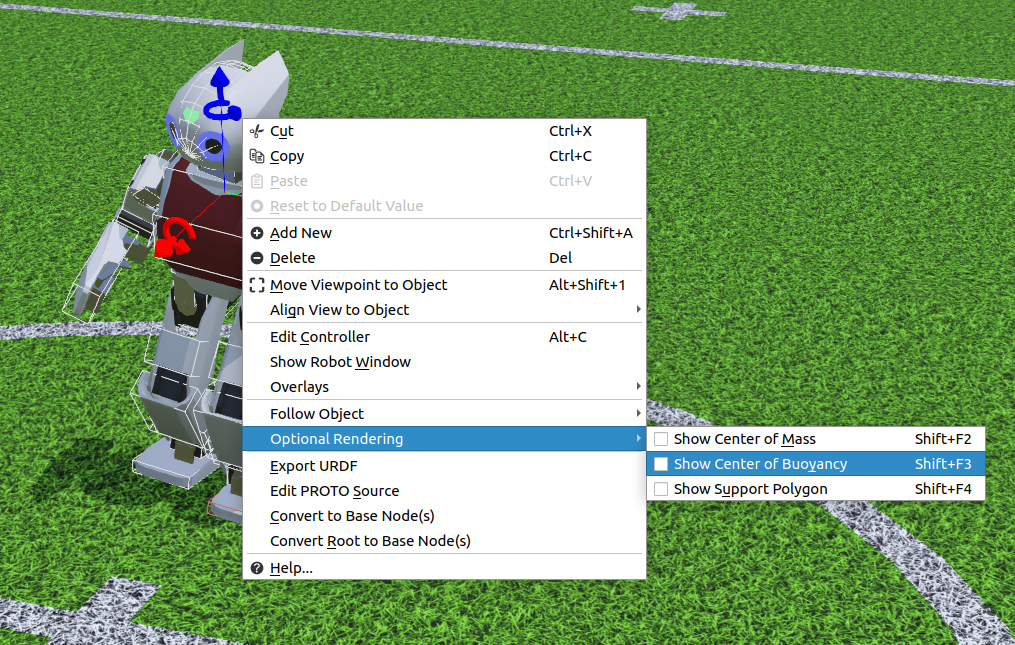
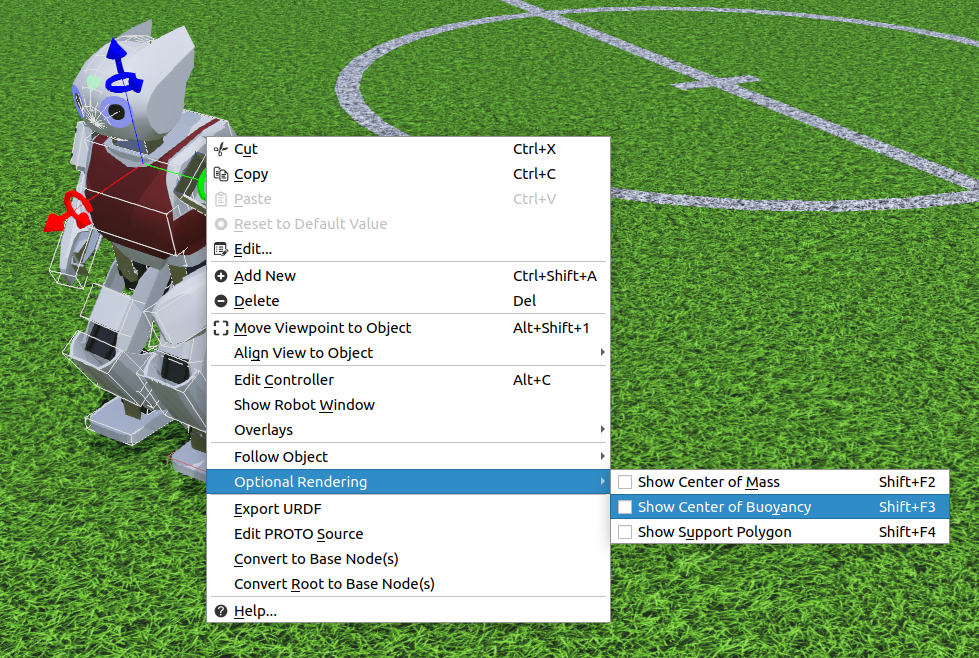
Add actions to show field editor (#5211)
* Add actions to show field editor and do it only once on selection change

* Update ChangeLog

* Remove unused function declaration

* Add edit field button

* Update doc screenshots

diff --git a/src/webots/scene_tree/WbSceneTree.cpp b/src/webots/scene_tree/WbSceneTree.cpp
@@ -125,6 +125,7 @@ WbSceneTree::WbSceneTree(QWidget *parent) :
   connect(mActionManager->action(WbAction::MOVE_VIEWPOINT_TO_OBJECT), &QAction::triggered, this,
           &WbSceneTree::moveViewpointToObject);
   connect(mActionManager->action(WbAction::RESET_VALUE), &QAction::triggered, this, &WbSceneTree::reset);
+  connect(mActionManager->action(WbAction::EDIT_FIELD), &QAction::triggered, this, &WbSceneTree::showFieldEditor);
   connect(mActionManager->action(WbAction::CONVERT_TO_BASE_NODES), &QAction::triggered, this, &WbSceneTree::convertToBaseNode);
   connect(mActionManager->action(WbAction::CONVERT_ROOT_TO_BASE_NODES), &QAction::triggered, this,
           &WbSceneTree::convertRootToBaseNode);
@@ -268,7 +269,7 @@ void WbSceneTree::setWorld(WbWorld *world) {
 void WbSceneTree::showExternProtoPanel() {
   clearSelection();
   // uncollapse the field editor
-  handleFieldEditorVisibility(true);
+  showFieldEditor(true);
   emit nodeSelected(NULL);
   mFieldEditor->editExternProto();
 }
@@ -1091,9 +1092,6 @@ void WbSceneTree::clearSelection() {
 
   mFieldEditor->setTitle("");
   mFieldEditor->editField(NULL, NULL);
-
-  // collapse the field editor
-  handleFieldEditorVisibility(false);
 }
 
 void WbSceneTree::enableObjectViewActions(bool enabled) {
@@ -1125,6 +1123,7 @@ void WbSceneTree::updateSelection() {
     mSelectedItem = NULL;
     enableObjectViewActions(false);
     mActionManager->action(WbAction::OPEN_HELP)->setEnabled(false);
+    mActionManager->action(WbAction::EDIT_FIELD)->setEnabled(false);
     updateToolbar();
     // no item selected
     return;
@@ -1134,6 +1133,7 @@ void WbSceneTree::updateSelection() {
     mSelectedItem = NULL;
     enableObjectViewActions(false);
     mActionManager->action(WbAction::OPEN_HELP)->setEnabled(false);
+    mActionManager->action(WbAction::EDIT_FIELD)->setEnabled(false);
     updateToolbar();
     return;
   }
@@ -1155,6 +1155,7 @@ void WbSceneTree::updateSelection() {
     mFieldEditor->editField(node, mSelectedItem->parent()->field(), mSelectedItem->row());
   }
 
+  mActionManager->action(WbAction::EDIT_FIELD)->setEnabled(mSplitter->sizes()[2] == 0);
   WbContextMenuGenerator::enableNodeActions(mSelectedItem->isNode());
   WbContextMenuGenerator::enableRobotActions(mSelectedItem->node() &&
                                              WbNodeUtilities::isRobotTypeName(mSelectedItem->node()->nodeModelName()));
@@ -1194,7 +1195,7 @@ void WbSceneTree::updateSelection() {
   }
 
   // uncollapse the field editor
-  handleFieldEditorVisibility(true);
+  showFieldEditor();
 }
 
 void WbSceneTree::startWatching(const QModelIndex &index) {
@@ -1504,10 +1505,14 @@ void WbSceneTree::handleDoubleClickOrEnterPress() {
            (mSelectedItem->isField() && !mSelectedItem->isSFNode() && !mSelectedItem->field()->isMultiple()))
     mFieldEditor->currentEditor()->takeKeyboardFocus();
   // default behavior, collapse/expand tree item
-  else if (mTreeView->isExpanded(mTreeView->currentIndex()))
-    mTreeView->collapse(mTreeView->currentIndex());
-  else
+  else if (!mTreeView->isExpanded(mTreeView->currentIndex()))
     mTreeView->expand(mTreeView->currentIndex());
+  else {
+    mTreeView->collapse(mTreeView->currentIndex());
+    return;  // do not show field editor when collasping tree item
+  }
+
+  showFieldEditor(true);
 }
 
 void WbSceneTree::refreshTreeView() {
@@ -1597,17 +1602,19 @@ void WbSceneTree::openTemplateInstanceInTextEditor() {
     emit editRequested(file.fileName());
 }
 
-void WbSceneTree::handleFieldEditorVisibility(bool isVisible) {
+void WbSceneTree::showFieldEditor(bool force) {
+  if (dynamic_cast<QAction *>(sender()) != NULL)
+    force = true;
+  static bool hiddenByUser = false;
   const QList<int> currentSize = mSplitter->sizes();
-  QList<int> sizes;
-  int newSize;
-  if (isVisible && currentSize[2] == 0)
-    newSize = 1;
-  else if (!isVisible && currentSize[2] != 0)
-    newSize = 0;
-  else
+  if (currentSize[2] != 0) {
+    hiddenByUser = true;
     return;
-  sizes << currentSize[0] << (mSplitter->height() - newSize) << newSize;
+  }
+  if (!force && hiddenByUser)
+    return;
+  QList<int> sizes;
+  sizes << currentSize[0] << (mSplitter->height() - 1) << 1;
   mSplitter->setSizes(sizes);
   mSplitter->setHandleWidth(mHandleWidth);
   return;

diff --git a/src/webots/user_commands/WbActionManager.cpp b/src/webots/user_commands/WbActionManager.cpp
@@ -1081,6 +1081,17 @@ void WbActionManager::populateActions() {
   newAction->setEnabled(false);
   mActions[RESET_VALUE] = newAction;
 
+  icon = QIcon();
+  icon.addFile("enabledIcons:edit_field_button.png", QSize(), QIcon::Normal);
+  icon.addFile("disabledIcons:edit_field_button.png", QSize(), QIcon::Disabled);
+  newAction = new QAction(this);
+  newAction->setText(tr("&Edit..."));
+  newAction->setStatusTip(tr("Open field/node editor."));
+  newAction->setToolTip(newAction->statusTip());
+  newAction->setIcon(icon);
+  newAction->setEnabled(false);
+  mActions[EDIT_FIELD] = newAction;
+
   newAction = new QAction(this);
   newAction->setText(tr("&Export URDF"));
   newAction->setStatusTip(tr("Export this robot model to URDF."));

diff --git a/src/webots/user_commands/WbContextMenuGenerator.cpp b/src/webots/user_commands/WbContextMenuGenerator.cpp
@@ -70,6 +70,7 @@ namespace WbContextMenuGenerator {
     contextMenu.addAction(WbActionManager::instance()->action(WbAction::COPY));
     contextMenu.addAction(WbActionManager::instance()->action(WbAction::PASTE));
     contextMenu.addAction(WbActionManager::instance()->action(WbAction::RESET_VALUE));
+    contextMenu.addAction(WbActionManager::instance()->action(WbAction::EDIT_FIELD));
     contextMenu.addSeparator();
     contextMenu.addAction(WbActionManager::instance()->action(WbAction::ADD_NEW));
     contextMenu.addAction(WbActionManager::instance()->action(WbAction::DEL));

diff --git a/src/webots/scene_tree/WbSceneTree.hpp b/src/webots/scene_tree/WbSceneTree.hpp
@@ -104,7 +104,7 @@ private slots:
   void openProtoInTextEditor();
   void editProtoInTextEditor();
   void openTemplateInstanceInTextEditor();
-  void handleFieldEditorVisibility(bool isVisible);
+  void showFieldEditor(bool force = false);
 
   void del(WbNode *nodeToDel = NULL);
 

diff --git a/src/webots/core/WbAction.hpp b/src/webots/core/WbAction.hpp
@@ -137,6 +137,7 @@ namespace WbAction {
     // node/field actions
     OPEN_HELP,
     RESET_VALUE,
+    EDIT_FIELD,
     EXPORT_URDF,
     // PROTO actions
     EDIT_PROTO_SOURCE,

diff --git a/docs/reference/changelog-r2022.md b/docs/reference/changelog-r2022.md
@@ -43,6 +43,7 @@ Released on September, 13th, 2022.
     - Changed the layout and behavior of the loading screen and progress bar for the [Web Interface](../guide/web-interface.md) ([#4593](https://github.com/cyberbotics/webots/pull/4593)).
     - Improved display of generated PROTO sources in Text Editor that are now opened in read-only mode ([#5023](https://github.com/cyberbotics/webots/pull/5023)).
     - Improved terminology and keyboard shortcuts of [Viewpoint](viewpoint.md) standard views related to the world ([#5149](https://github.com/cyberbotics/webots/pull/5149)).
+    - Added shortcuts to open the Field Editor from the Context Menu and double clicking on the Scene Tree node or field item ([#5211](https://github.com/cyberbotics/webots/pull/5211)).
   - Bug Fixes
     - Fixed execution of Webots on Windows in a UTF-8 path with non-ASCII characters ([#5103](https://github.com/cyberbotics/webots/pull/5103)).
     - Fixed bug in `wb_supervisor_node_get_field_by_index` and `wb_supervisor_node_get_proto_field_by_index` API functions ([#4366](https://github.com/cyberbotics/webots/pull/4366)).
